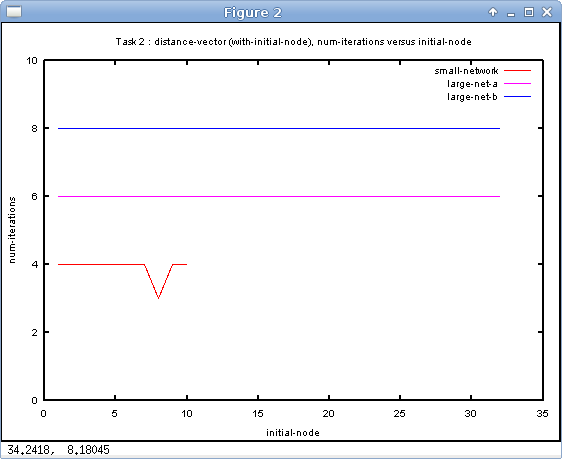
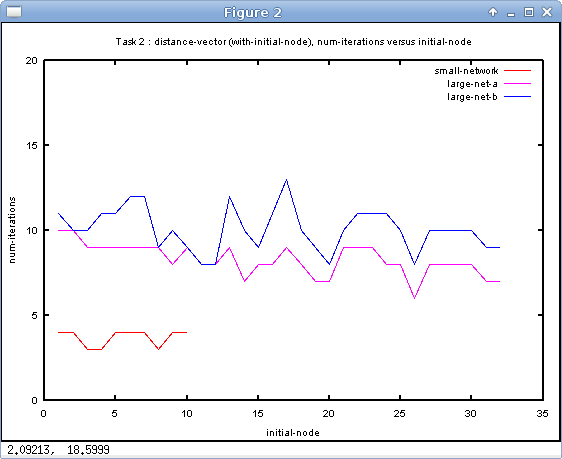
updated tasks

diff --git a/task_plot.m b/task_plot.m
@@ -14,11 +14,11 @@ title("Task 1 : link-state, cpu-time versus source-node")
 xlabel("source-node")
 ylabel("cpu-time")
 legend("small-network","large-net-a","large-net-b")
-axis([1 32 0 3], "autox")
+axis([1 32 0 10], "autox")
 
-y4 = [4,4,4,4,4,4,4,3,4,4]
-y5 = ones(1,32)*6
-y6 = ones(1,32)*8
+y4 = [4,4,3,3,4,4,4,3,4,4]
+y5 = [10,10,9,9,9,9,9,9,8,9,8,8,9,7,8,8,9,8,7,7,9,9,9,8,8,6,8,8,8,8,7,7]
+y6 = [11,10,10,11,11,12,12,9,10,9,8,8,12,10,9,11,13,10,9,8,10,11,11,11,10,8,10,10,10,10,9,9]
 
 figure
 plot(x1,y4,'r')
@@ -30,7 +30,7 @@ title("Task 2 : distance-vector (with-initial-node), num-iterations versus initi
 xlabel("initial-node")
 ylabel("num-iterations")
 legend("small-network","large-net-a","large-net-b")
-axis([1 32 0 10], "autox")
+axis([1 32 0 20], "autox")
 
 y7 = ones(1,10)*3
 y8 = ones(1,32)*5
